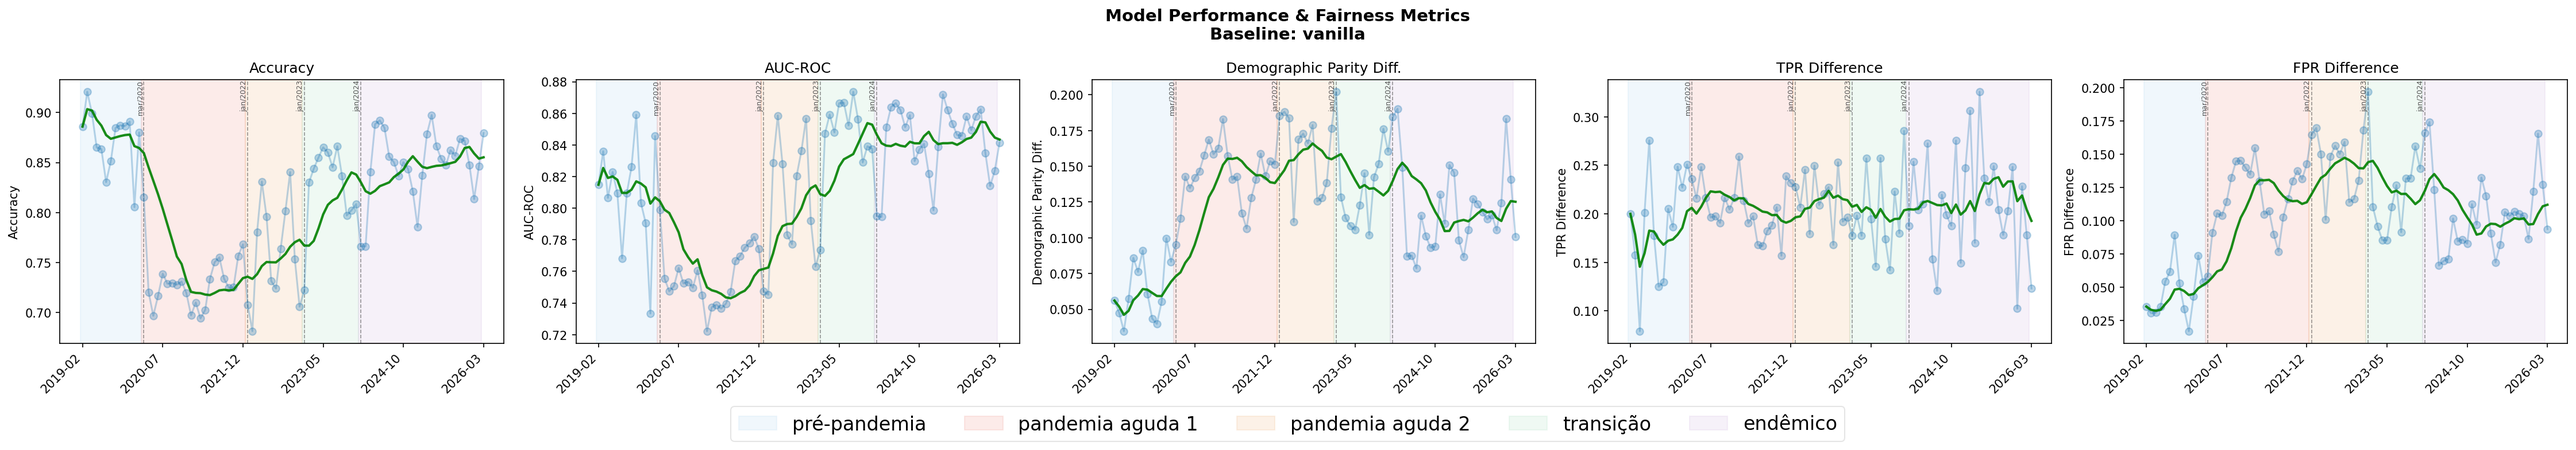
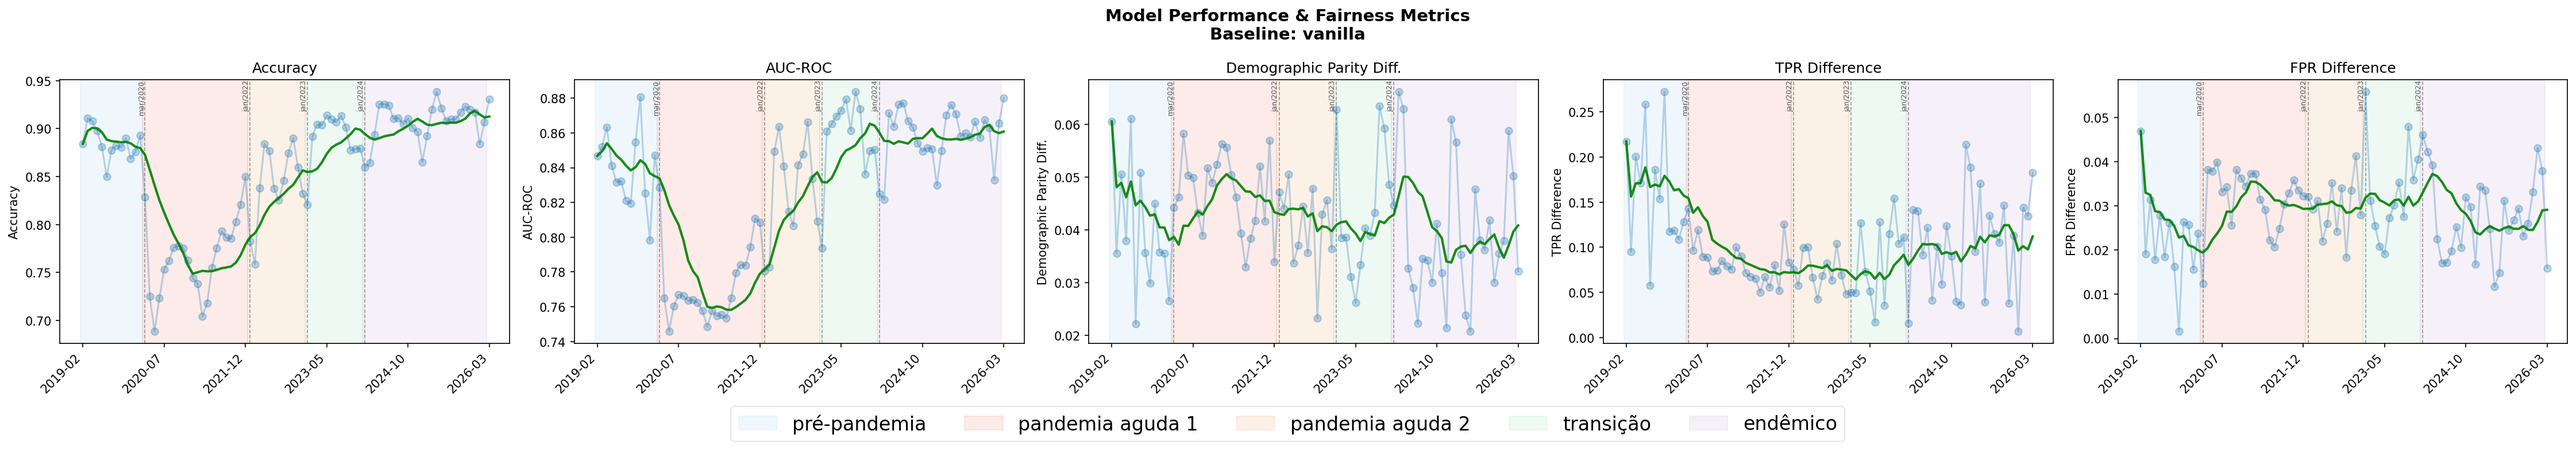
Adding SHAP values to metrics_utils

diff --git a/src/main.py b/src/main.py
@@ -26,6 +26,8 @@ def ABCInML(
         forecasted_distributions,
     ) = general_utils.initialize_variables(df, window_column)
 
+    shap_records = []
+
 
     print(f'(1) running with alpha: {alpha}')
 
@@ -117,11 +119,16 @@ def ABCInML(
                 alpha,
             ]
 
+            shap_record = metrics_utils.compute_shap_values(model, X_test)
+            shap_record['batch'] = str(batch)
+            shap_record['alpha'] = alpha
+            shap_records.append(shap_record)
+
     temporal_metrics = metrics_utils.compute_temporal_metrics(assessment_metrics, alpha)
 
     print('\n')
 
-    return assessment_metrics, temporal_metrics
+    return assessment_metrics, temporal_metrics, shap_records
 
 
 def main():
@@ -139,11 +146,12 @@ def main():
 
     assessment_results_df = pd.DataFrame()
     temporal_results_df = pd.DataFrame()
+    shap_records = []
 
     print(f'--- Running baseline: {baseline_type} ---\n')
 
     for alpha in alphas:
-        assessment_metrics, temporal_metrics = ABCInML(
+        assessment_metrics, temporal_metrics, alpha_shap_records = ABCInML(
             df=df,
             window_column=window_column,
             sensitive_attribute=sensitive_attribute,
@@ -155,8 +163,10 @@ def main():
 
         assessment_results_df = pd.concat([assessment_results_df, assessment_metrics])
         temporal_results_df = pd.concat([temporal_results_df, temporal_metrics])
+        shap_records.extend(alpha_shap_records)
 
     metrics_utils.generate_charts(assessment_results_df, temporal_results_df, baseline_type=baseline_type, save=True)
+    metrics_utils.generate_shap_charts(shap_records, save=True)
 
     print('finished training.')
 

diff --git a/src/utils/data_utils.py b/src/utils/data_utils.py
@@ -94,7 +94,7 @@ def _convert_types(df):
 
     df = df[df['NU_IDADE_N'] < 120]
     IDADE_MIN_TEORICA = 0
-    IDADE_MAX_TEORICA = 120
+    IDADE_MAX_TEORICA = 100
     df['NU_IDADE_N'] = (df['NU_IDADE_N'] - IDADE_MIN_TEORICA) / (IDADE_MAX_TEORICA - IDADE_MIN_TEORICA)
 
     return df
